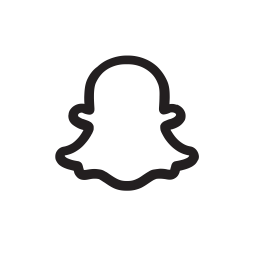
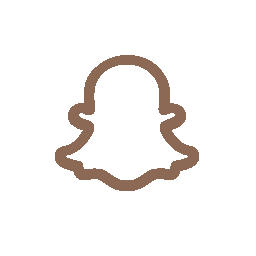
change social link color

Changed region(s): [[0.1875, 0.1875, 0.7812, 0.75]]

diff --git a/assets/css/style.css b/assets/css/style.css
@@ -1,14 +1,15 @@
 body {
   width: 100%;
-  background-color: white;
+  background-color:  #59323C;
+  overflow-y: none;
 }
 
 a {
-  color: #505050;
+  color: #F2EEB3;
 }
 
 .name {
-  color: #F2EEB3;
+  color: #BFAF80;
   padding: 5px;
   font-family: 'Bungee Hairline', cursive;
   font-weight: bold;
@@ -23,6 +24,7 @@ a {
   vertical-align: middle;
   text-align: right;
   padding: 10px;
+  padding-top: 25px;
 }
 
 .socialLinks a {
@@ -30,7 +32,9 @@ a {
 }
 
 .socialLinks img {
-  height: 50px;
+  height: 45px; 
+vertical-align: bottom;
+
 }
 
 .footer {
